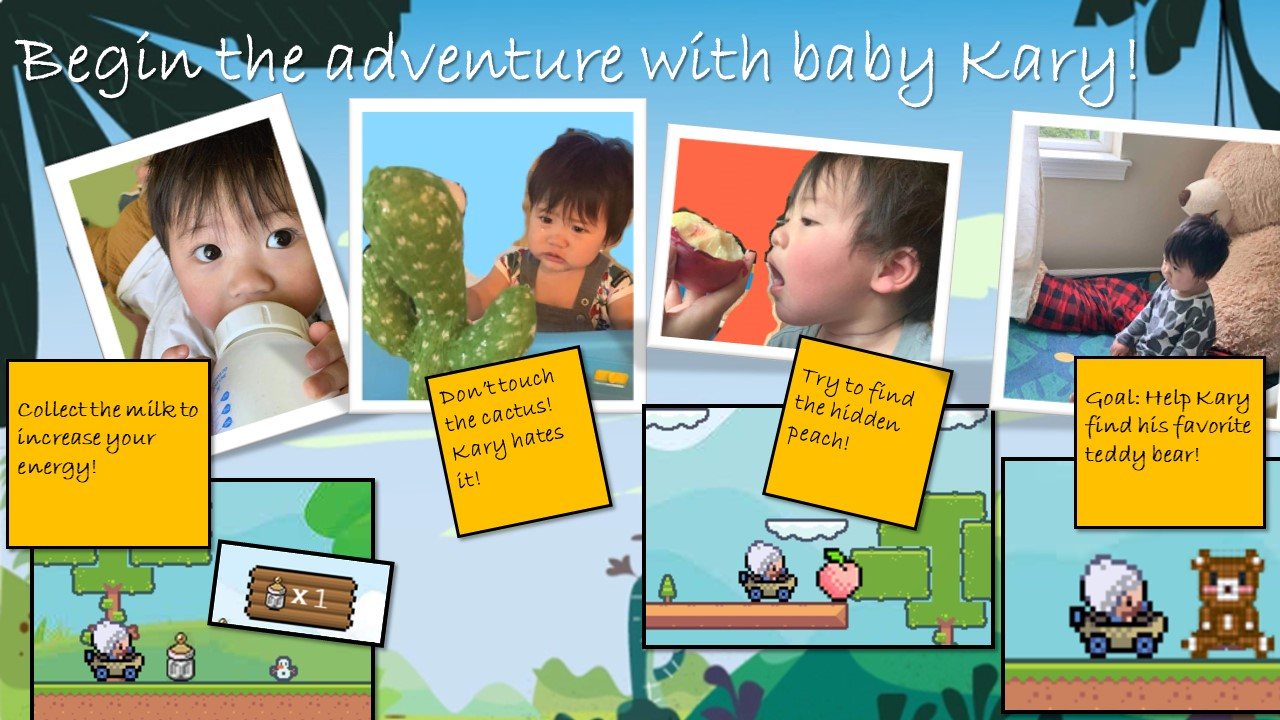
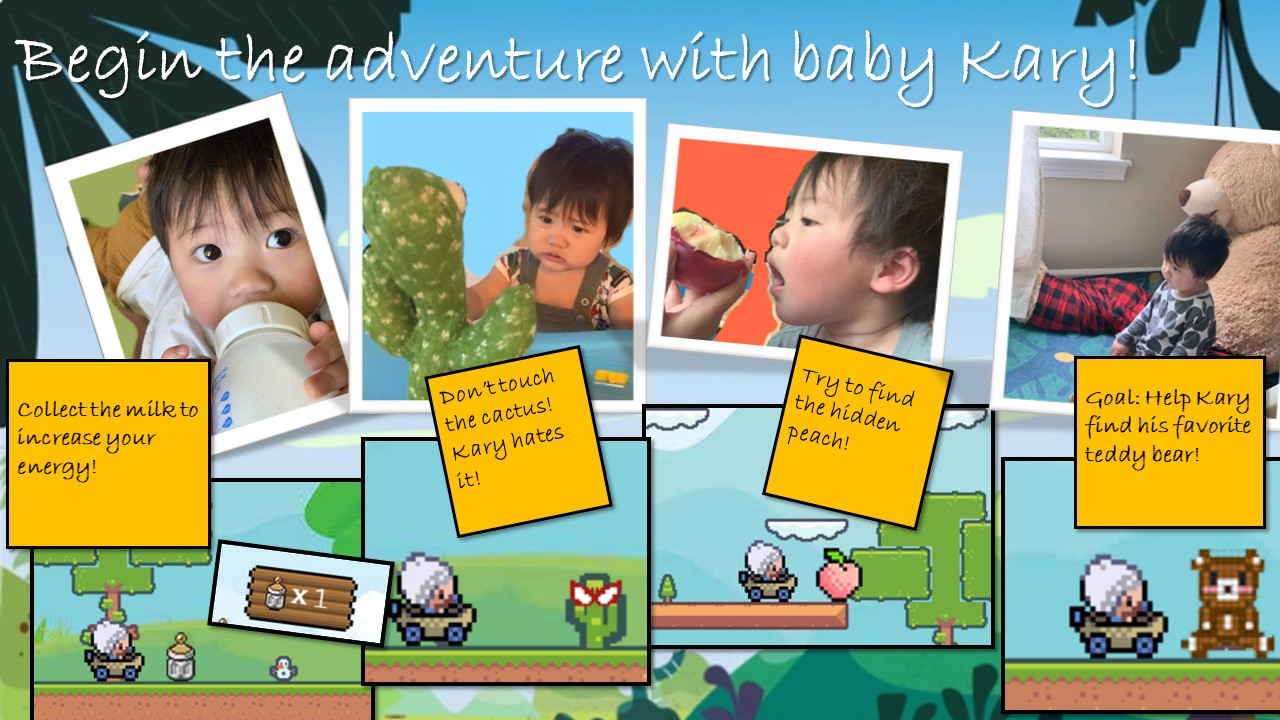
update

Changed region(s): [[0.2812, 0.5806, 0.5312, 0.9778]]

diff --git a/build/project.bundle.js b/build/project.bundle.js
@@ -6903,4 +6903,4 @@ var n=i(123),s=i(271),r=i(86),o=i(41),a=i(1392),h=i(84),l=i(0),u=i(118),c=i(591)
  * @copyright    2020 Photon Storm Ltd.
  * @license      {@link https://opensource.org/licenses/MIT|MIT License}
  */
-var n=i(33),s=i(17),r={Actions:i(275),Animations:i(723),BlendModes:i(35),Cache:i(735),Cameras:i(738),Core:i(806),Class:i(0),Create:i(888),Curves:i(894),Data:i(896),Display:i(898),DOM:i(917),Events:i(918),Game:i(920),GameObjects:i(1011),Geom:i(483),Input:i(1308),Loader:i(1338),Math:i(193),Physics:i(1493),Plugins:i(1403),Renderer:i(1405),Scale:i(1412),ScaleModes:i(168),Scene:i(418),Scenes:i(1413),Structs:i(1415),Textures:i(1416),Tilemaps:i(1418),Time:i(1461),Tweens:i(1463),Utils:i(1481)};r.Sound=i(1492),r=s(!1,r,n),t.exports=r,e.Phaser=r}).call(this,i(600))}])},t.exports=n()},function(t,e,i){"use strict";i.r(e);var n=i(0);const s={MENU:"MENU",PLAY:"PLAY",PAUSE:"PAUSE",INTRO:"INTRO"};class r extends Phaser.Scene{constructor(){super({key:s.MENU,physics:{default:"arcade",arcade:{gravity:{y:0}}}})}init(){}preload(){this.load.image("background","assets/background.png"),this.load.image("logo","assets/logo-color.png"),this.load.image("play","assets/play_button.png"),this.load.image("intro","assets/intro_button.png"),this.load.spritesheet("baby","assets/baby.png",{frameWidth:38,frameHeight:40}),this.load.audio("backgroundmusic","soundtrack/MainMenuBGM.mp3")}create(){this.add.image(400,200,"background"),this.add.image(this.game.renderer.width/2,this.game.renderer.height/4,"logo").setDepth(1).setScale(.75);let t=this.add.image(this.game.renderer.width/2,this.game.renderer.height/2,"play").setDepth(1),e=this.physics.add.sprite(100,450,"baby");e.setScale(2),e.setVisible(!1),this.music=this.sound.add("backgroundmusic");this.music.play({mute:!1,valume:1,rate:1,detune:0,seek:0,loop:!0,delay:0}),this.anims.create({key:"walk",frameRate:4,repeat:-1,frames:this.anims.generateFrameNumbers("baby",{start:0,end:1})}),t.setInteractive(),t.on("pointerover",()=>{e.setVisible(!0),e.play("walk"),e.x=t.x-t.width,e.y=t.y,t.setScale(1.3)}),t.on("pointerout",()=>{e.setVisible(!1),t.setScale(1)}),t.on("pointerup",()=>{this.music.stop(),this.scene.start(s.PLAY)}),this.createIntroButton()}createIntroButton(){this.introButton=this.add.image(720,30,"intro"),this.introButton.setInteractive(),this.introButton.on("pointerover",()=>{this.introButton.setScale(1.2)}),this.introButton.on("pointerout",()=>{this.introButton.setScale(1)}),this.introButton.on("pointerup",()=>{this.scene.pause(s.MENU),this.scene.launch(s.INTRO)})}}class o extends Phaser.Scene{constructor(){super({key:s.PAUSE})}init(){}preload(){this.load.image("pause","assets/pause_button.png")}create(){this.resume()}resume(){this.pauseButton=this.add.image(720,30,"pause").setScale(.75),this.pauseButton.setScrollFactor(0),this.pauseButton.setInteractive(),this.pausedText=this.add.text(this.game.renderer.width/4,this.game.renderer.height/2,"Game paused.\nClick again to continue.",{fontSize:"28px",fill:"#FFF"}),this.pauseButton.on("pointerup",()=>{this.pausedText.destroy(),this.scene.resume(s.PLAY),this.scene.stop(s.PAUSE)})}}class a extends Phaser.Scene{constructor(){super({key:s.PLAY,physics:{default:"arcade",arcade:{gravity:{y:500},debug:!0}}})}init(){}preload(){this.load.image("sky","assets/platform-background.jpg"),this.load.image("bottle","assets/bottle-2d-small.png"),this.load.image("cacut","assets/cacuts-2d-small.png"),this.load.image("spikes","assets/spikes.png"),this.load.image("bear","assets/little_bear-small.png"),this.load.image("peach","assets/peach.png"),this.load.image("gameover","assets/gameover-trans.png"),this.load.image("replay","assets/replay-small.png"),this.load.image("victory","assets/victory.png"),this.load.image("board","assets/board.png"),this.load.image("pause","assets/pause_button.png"),this.load.audio("ding","soundtrack/ding.mp3"),this.load.audio("explosion","soundtrack/explosion.mp3"),this.load.audio("jump","soundtrack/jump.mp3"),this.load.audio("gamemusic","soundtrack/SuperKaryBGM.mp3"),this.load.audio("win","soundtrack/win.mp3"),this.load.audio("gameover","soundtrack/gameover.mp3"),this.load.spritesheet("baby","assets/baby.png",{frameWidth:38,frameHeight:40}),this.load.spritesheet("coin","assets/coin.png",{frameWidth:18,frameHeight:18}),this.load.tilemapTiledJSON("map1","assets/test-tilemap.json"),this.load.image("tiles","assets/tiles_packed.png")}create(){this.add.image(400,200,"sky").setScrollFactor(0),this.bottleCount=3,this.deductBottleCount=0,this.createPlatform(),this.createPlayer(),this.createCursor(),this.createBottles(),this.createBear(),this.createPeach(),this.createPause(),this.createReplay(),this.sounds={},this.sounds.ding=this.sound.add("ding",{loop:!1}),this.sounds.explosion=this.sound.add("explosion",{loop:!1}),this.sounds.jump=this.sound.add("jump",{loop:!1}),this.sounds.win=this.sound.add("win",{loop:!1}),this.sounds.gameOver=this.sound.add("gameover",{loop:!1,volume:5}),this.sounds.music=this.sound.add("gamemusic");this.sounds.music.play({mute:!1,valume:1,rate:1,detune:0,seek:0,loop:!0,delay:0}),this.cacuts=this.physics.add.group(),this.board=this.add.image(80,40,"board"),this.board.setScrollFactor(0),this.board.setDepth(1),this.bottleText=this.add.text(90,25,"3",{fontSize:"28px",fill:"#FFF"}),this.bottleText.setScrollFactor(0),this.bottleText.setDepth(2),this.score=0,this.scoreText=this.add.text(180,25,"Score: 0",{fontSize:"28px",fill:"#333"}),this.scoreText.setScrollFactor(0),this.physics.add.collider(this.cacuts,this.platforms),this.physics.add.collider(this.player,this.cacuts,this.hitCacut,null,this);var t={camera:this.cameras.main,up:this.cursors.up,left:this.cursors.left,right:this.cursors.right,speed:.01,transparent:!0};this.controls=new Phaser.Cameras.Controls.FixedKeyControl(t),this.cameras.main.setBounds(0,0,this.platforms.x+this.platforms.width,0),this.physics.world.setBounds(0,0,this.platforms.width,440),this.cameras.main.startFollow(this.player,!0,.5,.5),this.physics.add.overlap(this.player,this.coins,this.collectCoin,null,this),this.physics.add.overlap(this.player,this.spikes,this.hitSpikes,null,this),this.startTime=-1}createPlatform(){var t=this.make.tilemap({key:"map1"}),e=t.addTilesetImage("test-tileset","tiles");t.createLayer("background",e,0,80),this.platforms=t.createStaticLayer("platform",e,0,80),this.platforms.setCollisionByExclusion(-1,!0),this.anims.create({key:"idle",frames:this.anims.generateFrameNumbers("coin",{start:0,end:1}),frameRate:5,repeat:-1}),this.coins=this.physics.add.group({allowGravity:!1,immovable:!0}),t.getObjectLayer("coins").objects.forEach(t=>{this.coins.create(t.x,t.y-t.height+80,"coin").setOrigin(0,0).play("idle",!0)}),this.spikes=this.physics.add.group({allowGravity:!1,immovable:!0}),t.getObjectLayer("spikes").objects.forEach(t=>{this.spikes.create(t.x,t.y-t.height+80,"spikes").setOrigin(0,0)})}collectCoin(t,e){e.disableBody(!0,!0),this.score+=10,this.scoreText.setText("Score: "+this.score),this.sounds.ding.play()}hitSpikes(t,e){this.gameOver()}createPlayer(){this.player=this.physics.add.sprite(50,200,"baby"),this.player.setBounce(.2),this.player.setCollideWorldBounds(!0),this.physics.add.collider(this.player,this.platforms),this.anims.create({key:"left",frames:this.anims.generateFrameNumbers("baby",{start:2,end:3}),frameRate:10,repeat:-1}),this.anims.create({key:"turn",frames:[{key:"baby",frame:0}],frameRate:20}),this.anims.create({key:"right",frames:this.anims.generateFrameNumbers("baby",{start:0,end:1}),frameRate:10,repeat:-1})}createCursor(){this.cursors=this.input.keyboard.createCursorKeys()}createBottles(){this.bottles=this.physics.add.group({key:"bottle",repeat:11,setXY:{x:12,y:0,stepX:200}}),this.bottles.children.iterate(t=>{t.setBounceY(Phaser.Math.FloatBetween(.4,.8))}),this.physics.add.collider(this.bottles,this.platforms),this.physics.add.overlap(this.player,this.bottles,this.collectBottle,null,this)}collectBottle(t,e){if(e.disableBody(!0,!0),this.bottleCount<10&&(this.bottleCount+=1,this.updateBottleText()),this.sounds.ding.play(),0===this.bottles.countActive(!0)){this.bottles.children.iterate(t=>{t.enableBody(!0,t.x,0,!0,!0)});var i=t.x<400?Phaser.Math.Between(400,800):Phaser.Math.Between(0,400);this.cacut=this.cacuts.create(i,16,"cacut"),this.cacut.setBounce(1),this.cacut.setCollideWorldBounds(!0),this.cacut.setVelocity(Phaser.Math.Between(-200,200),20),this.cacut.allowGravity=!1}}createBear(){this.bear=this.physics.add.sprite(5680,200,"bear"),this.bear.setBounce(.2),this.bear.setCollideWorldBounds(!0),this.physics.add.collider(this.bear,this.platforms),this.physics.add.collider(this.player,this.bear,this.hitBear,null,this)}createPeach(){this.peach=this.physics.add.sprite(300,200,"peach"),this.peach.setBounce(.2),this.peach.setCollideWorldBounds(!0),this.physics.add.collider(this.peach,this.platforms),this.physics.add.collider(this.player,this.peach,this.eatPeach,null,this)}eatPeach(t,e){e.disableBody(!0,!0),this.bottleCount=99,this.updateBottleText(),this.sounds.ding.play()}createReplay(){this.replay=this.add.image(this.game.renderer.width/2,this.game.renderer.height/2,"replay").setDepth(1),this.replay.setScrollFactor(0),this.replay.setDepth(-1)}triggerReplay(){this.replay.setDepth(2),this.replay.setInteractive(),this.replay.on("pointerover",()=>{this.replay.setScale(1.3)}),this.replay.on("pointerout",()=>{this.replay.setScale(1)}),this.replay.on("pointerup",()=>{this.sounds.win.stop(),this.sounds.gameOver.stop(),this.isGameOver=!1,this.victory=!1,this.sounds.music.stop(),this.scene.restart()})}createPause(){this.pauseButton=this.add.image(720,30,"pause").setScale(.75),this.pauseButton.setScrollFactor(0),this.pauseButton.setInteractive(),this.pauseButton.on("pointerup",()=>{this.scene.launch(s.PAUSE),this.scene.pause(s.PLAY)})}update(t){if(-1===this.startTime&&(this.startTime=t),this.isGameOver||this.victory)return;if(this.player.y-this.player.height/2>=400)return void this.gameOver();this.cursors.left.isDown?(this.player.setVelocityX(-320),this.player.anims.play("left",!0)):this.cursors.right.isDown?(this.player.setVelocityX(320),this.player.anims.play("right",!0)):(this.player.setVelocityX(0),this.player.anims.play("turn"));const e=Math.floor((t-this.startTime)/3e3);this.deductBottleCount!==e&&(this.deductBottleCount=e,this.updateBottleText()),this.cursors.up.isDown&&this.player.body.onFloor()&&(this.player.setVelocityY(-330),this.sounds.jump.play())}updateBottleText(){const t=this.bottleCount-this.deductBottleCount;this.bottleText.setText(t),0===t&&this.gameOver()}hitCacut(t,e){this.sounds.explosion.play(),this.player.setTint(16711680),this.gameOver()}gameOver(){this.isGameOver=!0,this.physics.pause(),this.sounds.music.stop(),this.sounds.gameOver.play(),this.pauseButton.destroy(),this.add.image(this.game.renderer.width/2,this.game.renderer.height/3,"gameover").setDepth(1).setScale(.75).setScrollFactor(0),this.triggerReplay()}hitBear(){this.physics.pause(),this.player.anims.play("turn"),this.sounds.music.stop(),this.sounds.win.play(),this.victory=!0,this.pauseButton.destroy(),this.add.image(this.game.renderer.width/2,this.game.renderer.height/3,"victory").setDepth(1).setScale(.75).setScrollFactor(0),this.triggerReplay()}}class h extends Phaser.Scene{constructor(){super({key:s.INTRO})}init(){}preload(){this.load.image("introduction","assets/introduction.jpg"),this.load.image("back","assets/back_button.png")}create(){this.intro()}intro(){this.add.image(this.game.renderer.width/2,this.game.renderer.height/2,"introduction").setDepth(2).setScale(.58),this.backButton=this.add.image(720,30,"back").setDepth(3),this.backButton.setInteractive(),this.backButton.on("pointerover",()=>{this.backButton.setScale(1.2)}),this.backButton.on("pointerout",()=>{this.backButton.setScale(1)}),this.backButton.on("pointerup",()=>{this.scene.stop(s.INTRO),this.scene.resume(s.MENU)})}}var l={type:Phaser.AUTO,width:800,height:400,scene:[r,a,o,h],scale:{mode:Phaser.Scale.FIT,autoCenter:Phaser.Scale.CENTER_BOTH}};new n.Game(l)}]);
+var n=i(33),s=i(17),r={Actions:i(275),Animations:i(723),BlendModes:i(35),Cache:i(735),Cameras:i(738),Core:i(806),Class:i(0),Create:i(888),Curves:i(894),Data:i(896),Display:i(898),DOM:i(917),Events:i(918),Game:i(920),GameObjects:i(1011),Geom:i(483),Input:i(1308),Loader:i(1338),Math:i(193),Physics:i(1493),Plugins:i(1403),Renderer:i(1405),Scale:i(1412),ScaleModes:i(168),Scene:i(418),Scenes:i(1413),Structs:i(1415),Textures:i(1416),Tilemaps:i(1418),Time:i(1461),Tweens:i(1463),Utils:i(1481)};r.Sound=i(1492),r=s(!1,r,n),t.exports=r,e.Phaser=r}).call(this,i(600))}])},t.exports=n()},function(t,e,i){"use strict";i.r(e);var n=i(0);const s={MENU:"MENU",PLAY:"PLAY",PAUSE:"PAUSE",INTRO:"INTRO"};class r extends Phaser.Scene{constructor(){super({key:s.MENU,physics:{default:"arcade",arcade:{gravity:{y:0}}}})}init(){}preload(){this.load.image("background","assets/background.png"),this.load.image("logo","assets/logo-color.png"),this.load.image("play","assets/play_button.png"),this.load.image("intro","assets/intro_button.png"),this.load.spritesheet("baby","assets/baby.png",{frameWidth:38,frameHeight:40}),this.load.audio("backgroundmusic","soundtrack/MainMenuBGM.mp3")}create(){this.add.image(400,200,"background"),this.add.image(this.game.renderer.width/2,this.game.renderer.height/4,"logo").setDepth(1).setScale(.75);let t=this.add.image(this.game.renderer.width/2,this.game.renderer.height/2,"play").setDepth(1),e=this.physics.add.sprite(100,450,"baby");e.setScale(2),e.setVisible(!1),this.music=this.sound.add("backgroundmusic");this.music.play({mute:!1,valume:1,rate:1,detune:0,seek:0,loop:!0,delay:0}),this.anims.create({key:"walk",frameRate:4,repeat:-1,frames:this.anims.generateFrameNumbers("baby",{start:0,end:1})}),t.setInteractive(),t.on("pointerover",()=>{e.setVisible(!0),e.play("walk"),e.x=t.x-t.width,e.y=t.y,t.setScale(1.3)}),t.on("pointerout",()=>{e.setVisible(!1),t.setScale(1)}),t.on("pointerup",()=>{this.music.stop(),this.scene.start(s.PLAY)}),this.createIntroButton()}createIntroButton(){this.introButton=this.add.image(720,30,"intro"),this.introButton.setInteractive(),this.introButton.on("pointerover",()=>{this.introButton.setScale(1.2)}),this.introButton.on("pointerout",()=>{this.introButton.setScale(1)}),this.introButton.on("pointerup",()=>{this.scene.pause(s.MENU),this.scene.launch(s.INTRO)})}}class o extends Phaser.Scene{constructor(){super({key:s.PAUSE})}init(){}preload(){this.load.image("pause","assets/pause_button.png")}create(){this.resume()}resume(){this.pauseButton=this.add.image(720,30,"pause").setScale(.75),this.pauseButton.setScrollFactor(0),this.pauseButton.setInteractive(),this.pausedText=this.add.text(this.game.renderer.width/4,this.game.renderer.height/2,"Game paused.\nClick again to continue.",{fontSize:"28px",fill:"#FFF"}),this.pauseButton.on("pointerup",()=>{this.pausedText.destroy(),this.scene.resume(s.PLAY),this.scene.stop(s.PAUSE)})}}class a extends Phaser.Scene{constructor(){super({key:s.PLAY,physics:{default:"arcade",arcade:{gravity:{y:500},debug:!1}}})}init(){}preload(){this.load.image("sky","assets/platform-background.jpg"),this.load.image("milk","assets/milk.png"),this.load.image("cactus","assets/cactus.png"),this.load.image("cactus","assets/cactus.png"),this.load.image("bear","assets/little_bear-small.png"),this.load.image("peach","assets/peach.png"),this.load.image("gameover","assets/gameover-trans.png"),this.load.image("replay","assets/replay-small.png"),this.load.image("victory","assets/victory.png"),this.load.image("board","assets/board.png"),this.load.image("pause","assets/pause_button.png"),this.load.audio("ding","soundtrack/ding.mp3"),this.load.audio("explosion","soundtrack/explosion.mp3"),this.load.audio("jump","soundtrack/jump.mp3"),this.load.audio("gamemusic","soundtrack/SuperKaryBGM.mp3"),this.load.audio("win","soundtrack/win.mp3"),this.load.audio("gameover","soundtrack/gameover.mp3"),this.load.spritesheet("baby","assets/baby.png",{frameWidth:38,frameHeight:40}),this.load.spritesheet("coin","assets/coin.png",{frameWidth:18,frameHeight:18}),this.load.tilemapTiledJSON("map1","assets/test-tilemap.json"),this.load.image("tiles","assets/tiles_packed.png")}create(){this.add.image(400,200,"sky").setScrollFactor(0),this.bottleCount=3,this.deductBottleCount=0,this.createPlatform(),this.createPlayer(),this.createCursor(),this.createBear(),this.createPeach(),this.createPause(),this.createReplay(),this.sounds={},this.sounds.ding=this.sound.add("ding",{loop:!1}),this.sounds.explosion=this.sound.add("explosion",{loop:!1}),this.sounds.jump=this.sound.add("jump",{loop:!1}),this.sounds.win=this.sound.add("win",{loop:!1}),this.sounds.gameOver=this.sound.add("gameover",{loop:!1,volume:5}),this.sounds.music=this.sound.add("gamemusic");this.sounds.music.play({mute:!1,valume:1,rate:1,detune:0,seek:0,loop:!0,delay:0}),this.board=this.add.image(80,40,"board"),this.board.setScrollFactor(0),this.board.setDepth(1),this.bottleText=this.add.text(90,25,"3",{fontSize:"28px",fill:"#FFF"}),this.bottleText.setScrollFactor(0),this.bottleText.setDepth(2),this.score=0,this.scoreText=this.add.text(180,25,"Score: 0",{fontSize:"28px",fill:"#333"}),this.scoreText.setScrollFactor(0);var t={camera:this.cameras.main,up:this.cursors.up,left:this.cursors.left,right:this.cursors.right,speed:.01,transparent:!0};this.controls=new Phaser.Cameras.Controls.FixedKeyControl(t),this.cameras.main.setBounds(0,0,this.platforms.x+this.platforms.width,0),this.physics.world.setBounds(0,0,this.platforms.width,440),this.cameras.main.startFollow(this.player,!0,.5,.5),this.physics.add.overlap(this.player,this.coins,this.collectCoin,null,this),this.physics.add.overlap(this.player,this.cactus,this.hitCactus,null,this),this.physics.add.overlap(this.player,this.bottles,this.collectBottle,null,this),this.startTime=-1}createPlatform(){var t=this.make.tilemap({key:"map1"}),e=t.addTilesetImage("test-tileset","tiles");t.createLayer("background",e,0,80),this.platforms=t.createStaticLayer("platform",e,0,80),this.platforms.setCollisionByExclusion(-1,!0),this.anims.create({key:"idle",frames:this.anims.generateFrameNumbers("coin",{start:0,end:1}),frameRate:5,repeat:-1}),this.coins=this.physics.add.group({allowGravity:!1,immovable:!0}),t.getObjectLayer("coins").objects.forEach(t=>{this.coins.create(t.x,t.y-t.height+80,"coin").setOrigin(0,0).play("idle",!0)}),this.cactus=this.physics.add.group({allowGravity:!1,immovable:!0}),t.getObjectLayer("cactus").objects.forEach(t=>{this.cactus.create(t.x,t.y-t.height+80,"cactus").setOrigin(0,0)}),this.bottles=this.physics.add.group({allowGravity:!1,immovable:!0}),t.getObjectLayer("milk").objects.forEach(t=>{this.bottles.create(t.x,t.y-t.height+80,"milk").setOrigin(0,0)}),t.createLayer("foreground",e,0,80)}collectCoin(t,e){e.disableBody(!0,!0),this.score+=10,this.scoreText.setText("Score: "+this.score),this.sounds.ding.play()}hitCactus(t,e){this.gameOver()}createPlayer(){this.player=this.physics.add.sprite(50,200,"baby"),this.player.setBounce(.2),this.player.setCollideWorldBounds(!0),this.physics.add.collider(this.player,this.platforms),this.anims.create({key:"left",frames:this.anims.generateFrameNumbers("baby",{start:2,end:3}),frameRate:10,repeat:-1}),this.anims.create({key:"turn",frames:[{key:"baby",frame:0}],frameRate:20}),this.anims.create({key:"right",frames:this.anims.generateFrameNumbers("baby",{start:0,end:1}),frameRate:10,repeat:-1})}createCursor(){this.cursors=this.input.keyboard.createCursorKeys()}collectBottle(t,e){e.disableBody(!0,!0),this.bottleCount<10&&(this.bottleCount+=1,this.updateBottleText()),this.sounds.ding.play()}createBear(){this.bear=this.physics.add.sprite(5680,200,"bear"),this.bear.setBounce(.2),this.bear.setCollideWorldBounds(!0),this.physics.add.collider(this.bear,this.platforms),this.physics.add.collider(this.player,this.bear,this.hitBear,null,this)}createPeach(){this.peach=this.physics.add.sprite(1300,200,"peach"),this.peach.setBounce(.2),this.peach.setCollideWorldBounds(!0),this.physics.add.collider(this.peach,this.platforms),this.physics.add.collider(this.player,this.peach,this.eatPeach,null,this)}eatPeach(t,e){e.disableBody(!0,!0),this.bottleCount=99,this.updateBottleText(),this.sounds.ding.play()}createReplay(){this.replay=this.add.image(this.game.renderer.width/2,this.game.renderer.height/2,"replay").setDepth(1),this.replay.setScrollFactor(0),this.replay.setDepth(-1)}triggerReplay(){this.replay.setDepth(2),this.replay.setInteractive(),this.replay.on("pointerover",()=>{this.replay.setScale(1.3)}),this.replay.on("pointerout",()=>{this.replay.setScale(1)}),this.replay.on("pointerup",()=>{this.sounds.win.stop(),this.sounds.gameOver.stop(),this.isGameOver=!1,this.victory=!1,this.sounds.music.stop(),this.scene.restart()})}createPause(){this.pauseButton=this.add.image(720,30,"pause").setScale(.75),this.pauseButton.setScrollFactor(0),this.pauseButton.setInteractive(),this.pauseButton.on("pointerup",()=>{this.scene.launch(s.PAUSE),this.scene.pause(s.PLAY)})}update(t){if(-1===this.startTime&&(this.startTime=t),this.isGameOver||this.victory)return;if(this.player.y-this.player.height/2>=400)return void this.gameOver();this.cursors.left.isDown?(this.player.setVelocityX(-320),this.player.anims.play("left",!0)):this.cursors.right.isDown?(this.player.setVelocityX(320),this.player.anims.play("right",!0)):(this.player.setVelocityX(0),this.player.anims.play("turn"));const e=Math.floor((t-this.startTime)/3e3);this.deductBottleCount!==e&&(this.deductBottleCount=e,this.updateBottleText()),this.cursors.up.isDown&&this.player.body.onFloor()&&(this.player.setVelocityY(-330),this.sounds.jump.play())}updateBottleText(){const t=this.bottleCount-this.deductBottleCount;this.bottleText.setText(t),0===t&&this.gameOver()}gameOver(){this.isGameOver=!0,this.physics.pause(),this.sounds.music.stop(),this.sounds.gameOver.play(),this.pauseButton.destroy(),this.add.image(this.game.renderer.width/2,this.game.renderer.height/3,"gameover").setDepth(1).setScale(.75).setScrollFactor(0),this.triggerReplay()}hitBear(){this.physics.pause(),this.player.anims.play("turn"),this.sounds.music.stop(),this.sounds.win.play(),this.victory=!0,this.pauseButton.destroy(),this.add.image(this.game.renderer.width/2,this.game.renderer.height/3,"victory").setDepth(1).setScale(.75).setScrollFactor(0),this.triggerReplay()}}class h extends Phaser.Scene{constructor(){super({key:s.INTRO})}init(){}preload(){this.load.image("introduction","assets/introduction.jpg"),this.load.image("back","assets/back_button.png")}create(){this.intro()}intro(){this.add.image(this.game.renderer.width/2,this.game.renderer.height/2,"introduction").setDepth(2).setScale(.58),this.backButton=this.add.image(720,30,"back").setDepth(3),this.backButton.setInteractive(),this.backButton.on("pointerover",()=>{this.backButton.setScale(1.2)}),this.backButton.on("pointerout",()=>{this.backButton.setScale(1)}),this.backButton.on("pointerup",()=>{this.scene.stop(s.INTRO),this.scene.resume(s.MENU)})}}var l={type:Phaser.AUTO,width:800,height:400,scene:[r,a,o,h],scale:{mode:Phaser.Scale.FIT,autoCenter:Phaser.Scale.CENTER_BOTH}};new n.Game(l)}]);
